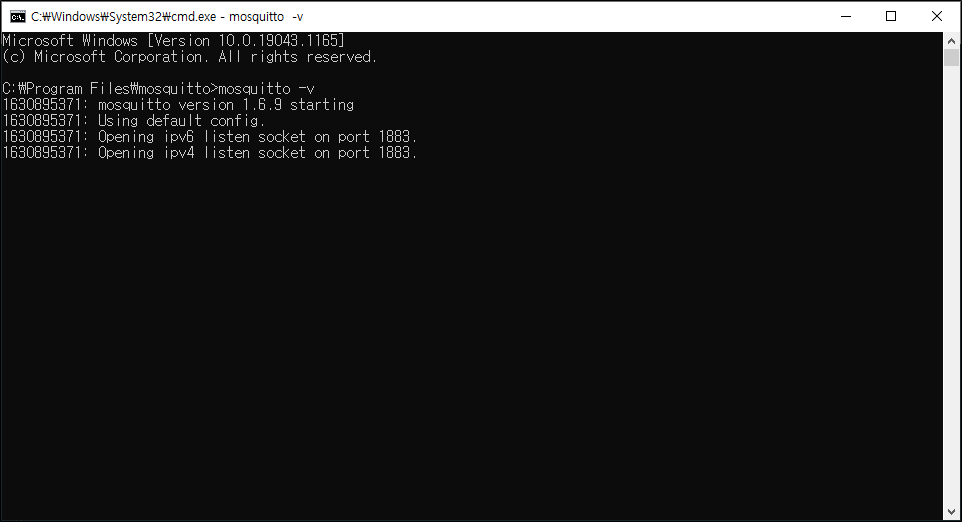
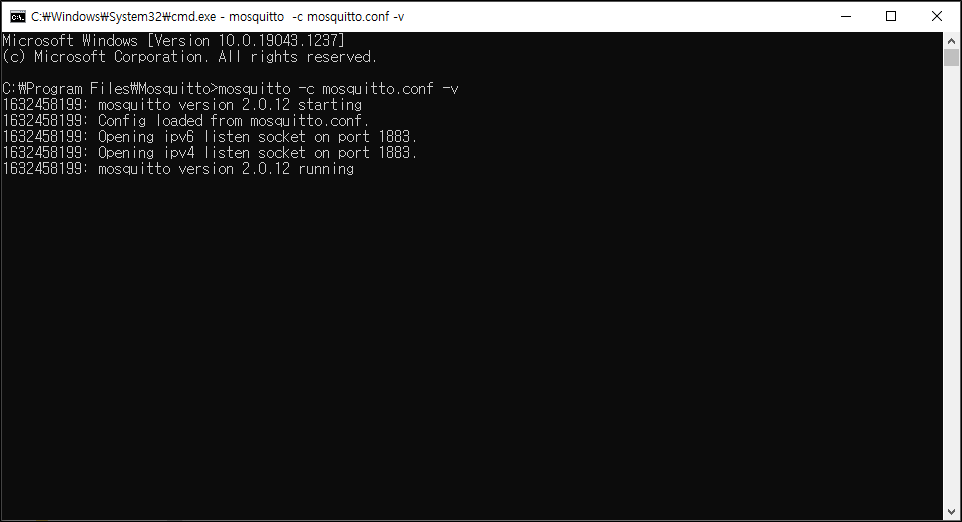
Modify examples and update example guide documents

diff --git a/examples/tcp_client_over_ssl/w5x00_tcp_client_over_ssl.c b/examples/tcp_client_over_ssl/w5x00_tcp_client_over_ssl.c
@@ -80,7 +80,7 @@ static wiz_NetInfo g_net_info =
 static uint8_t g_ssl_buf[ETHERNET_BUF_MAX_SIZE] = {
     0,
 };
-static uint8_t g_target_ip[4] = {192, 168, 11, 3};
+static uint8_t g_ssl_target_ip[4] = {192, 168, 11, 3};
 
 static mbedtls_ctr_drbg_context g_ctr_drbg;
 static mbedtls_ssl_context g_ssl;
@@ -203,6 +203,7 @@ int main()
             ;
     }
 
+    /* Get ciphersuite information */
     printf(" Supported ciphersuite lists\n");
 
     list = mbedtls_ssl_list_ciphersuites();
@@ -227,7 +228,7 @@ int main()
 
     if (retval != SOCKET_SSL)
     {
-        printf(" Socket %d\n", retval);
+        printf(" Socket failed %d\n", retval);
 
         while (1)
             ;
@@ -237,9 +238,7 @@ int main()
 
     do
     {
-        retval = connect((uint8_t)(g_ssl.p_bio), g_target_ip, PORT_SSL);
-
-        printf(" Connect %d\n", retval);
+        retval = connect((uint8_t)(g_ssl.p_bio), g_ssl_target_ip, PORT_SSL);
 
         if ((retval == SOCK_OK) || (retval == SOCKERR_TIMEOUT))
         {
@@ -254,6 +253,8 @@ int main()
         while (1)
             ;
     }
+
+    printf(" Connected %d\n", retval);
 
     while ((retval = mbedtls_ssl_handshake(&g_ssl)) != 0)
     {
@@ -270,6 +271,7 @@ int main()
 
     memset(g_ssl_buf, 0x00, ETHERNET_BUF_MAX_SIZE);
     strcpy(g_ssl_buf, " W5x00 TCP over SSL test\n");
+
     mbedtls_ssl_write(&g_ssl, g_ssl_buf, strlen(g_ssl_buf));
 
     /* Infinite loop */
@@ -285,6 +287,7 @@ int main()
             }
 
             memset(g_ssl_buf, 0x00, ETHERNET_BUF_MAX_SIZE);
+
             mbedtls_ssl_read(&g_ssl, g_ssl_buf, len);
 
             printf("%s", g_ssl_buf);

diff --git a/examples/dhcp_dns/w5x00_dhcp_dns.c b/examples/dhcp_dns/w5x00_dhcp_dns.c
@@ -183,8 +183,6 @@ int main()
 
     add_repeating_timer_us(-1000, repeating_timer_callback, NULL, &g_timer);
 
-    DNS_init(SOCKET_DNS, g_ethernet_buf);
-
     if (g_net_info.dhcp == NETINFO_DHCP) // DHCP
     {
         wizchip_dhcp_init();
@@ -196,6 +194,8 @@ int main()
         /* Get network information */
         print_network_information();
     }
+
+    DNS_init(SOCKET_DNS, g_ethernet_buf);
 
     /* Infinite loop */
     while (1)
@@ -246,8 +246,8 @@ int main()
                 if (DNS_run(g_net_info.dns, g_dns_target_domain, g_dns_target_ip) > 0)
                 {
                     printf(" DNS success\n");
-                    printf(" DNS target domain : %s\n", g_dns_target_domain);
-                    printf(" DNS IP of target domain : %d.%d.%d.%d\n", g_dns_target_ip[0], g_dns_target_ip[1], g_dns_target_ip[2], g_dns_target_ip[3]);
+                    printf(" Target domain : %s\n", g_dns_target_domain);
+                    printf(" IP of target domain : %d.%d.%d.%d\n", g_dns_target_ip[0], g_dns_target_ip[1], g_dns_target_ip[2], g_dns_target_ip[3]);
 
                     g_dns_get_ip_flag = 1;
 
@@ -257,7 +257,10 @@ int main()
                 {
                     dns_retry++;
 
-                    printf(" DNS retry after 1 second\n");
+                    if (dns_retry <= DNS_RETRY_COUNT)
+                    {
+                        printf(" DNS timeout occurred and retry %d\n", dns_retry);
+                    }
                 }
 
                 if (dns_retry > DNS_RETRY_COUNT)

diff --git a/examples/mqtt/publish/w5x00_mqtt_publish.c b/examples/mqtt/publish/w5x00_mqtt_publish.c
@@ -83,7 +83,7 @@ static wiz_NetInfo g_net_info =
 static uint8_t g_mqtt_send_buf[ETHERNET_BUF_MAX_SIZE] = {
 	0,
 };
-static uint8_t g_mqtt_read_buf[ETHERNET_BUF_MAX_SIZE] = {
+static uint8_t g_mqtt_recv_buf[ETHERNET_BUF_MAX_SIZE] = {
 	0,
 };
 static uint8_t g_mqtt_broker_ip[4] = {192, 168, 11, 3};
@@ -195,7 +195,7 @@ int main()
 	}
 
 	/* Initialize MQTT client */
-	MQTTClientInit(&g_mqtt_client, &g_mqtt_network, DEFAULT_TIMEOUT, g_mqtt_send_buf, ETHERNET_BUF_MAX_SIZE, g_mqtt_read_buf, ETHERNET_BUF_MAX_SIZE);
+	MQTTClientInit(&g_mqtt_client, &g_mqtt_network, DEFAULT_TIMEOUT, g_mqtt_send_buf, ETHERNET_BUF_MAX_SIZE, g_mqtt_recv_buf, ETHERNET_BUF_MAX_SIZE);
 
 	/* Connect to the MQTT broker */
 	g_mqtt_packet_connect_data.MQTTVersion = 3;

diff --git a/examples/mqtt/subscribe/w5x00_mqtt_subscribe.c b/examples/mqtt/subscribe/w5x00_mqtt_subscribe.c
@@ -82,7 +82,7 @@ static wiz_NetInfo g_net_info =
 static uint8_t g_mqtt_send_buf[ETHERNET_BUF_MAX_SIZE] = {
 	0,
 };
-static uint8_t g_mqtt_read_buf[ETHERNET_BUF_MAX_SIZE] = {
+static uint8_t g_mqtt_recv_buf[ETHERNET_BUF_MAX_SIZE] = {
 	0,
 };
 static uint8_t g_mqtt_broker_ip[4] = {192, 168, 11, 3};
@@ -196,7 +196,7 @@ int main()
 	}
 
 	/* Initialize MQTT client */
-	MQTTClientInit(&g_mqtt_client, &g_mqtt_network, DEFAULT_TIMEOUT, g_mqtt_send_buf, ETHERNET_BUF_MAX_SIZE, g_mqtt_read_buf, ETHERNET_BUF_MAX_SIZE);
+	MQTTClientInit(&g_mqtt_client, &g_mqtt_network, DEFAULT_TIMEOUT, g_mqtt_send_buf, ETHERNET_BUF_MAX_SIZE, g_mqtt_recv_buf, ETHERNET_BUF_MAX_SIZE);
 
 	/* Connect to the MQTT broker */
 	g_mqtt_packet_connect_data.MQTTVersion = 3;

diff --git a/examples/mqtt/subscribe/README.md b/examples/mqtt/subscribe/README.md
@@ -115,7 +115,7 @@ static uint8_t g_mqtt_broker_ip[4] = {192, 168, 11, 3};
 5. Create broker using mosquitto by executing the following command. If the broker is created normally, the broker's IP is the current IP of your desktop or laptop, and the port is 1883 by default.
 
 ```cpp
-mosquitto -v
+mosquitto -c mosquitto.conf -v
 ```
 
 ![][link-create_mqtt_broker_using_mosquitto]
@@ -125,6 +125,14 @@ mosquitto -v
 7. If the MQTT subscribe example works normally on Raspberry Pi Pico or W5100S-EVB-Pico, you can see the network information of Raspberry Pi Pico or W5100S-EVB-Pico, connecting to the broker and subscribing to the subscribe topic.
 
 ![][link-see_network_information_of_raspberry_pi_pico_connecting_to_broker_and_subscribing_to_subscribe_topic]
+
+
+
+## Appendix
+
+- Prior to Mosquitto version 2.0 the default is to allow clients to connect without authentication. In 2.0 and up, you must choose your authentication options explicitly before clients can connect. Therefore, if you are using 2.0 and up, refer to following link to setup 'mosquitto.conf' in the directory where Mosquitto is installed.
+
+    - [**Authentication Methods**][link-authentication_methods]
 
 
 
@@ -139,3 +147,4 @@ Link
 [link-run_mosquitto]: https://github.com/Wiznet/RP2040-HAT-C/blob/main/static/images/mqtt/subscribe/run_mosquitto.png
 [link-create_mqtt_broker_using_mosquitto]: https://github.com/Wiznet/RP2040-HAT-C/blob/main/static/images/mqtt/subscribe/create_mqtt_broker_using_mosquitto.png
 [link-see_network_information_of_raspberry_pi_pico_connecting_to_broker_and_subscribing_to_subscribe_topic]: https://github.com/Wiznet/RP2040-HAT-C/blob/main/static/images/mqtt/subscribe/see_network_information_of_raspberry_pi_pico_connecting_to_broker_and_subscribing_to_subscribe_topic.png
+[link-authentication_methods]: https://mosquitto.org/documentation/authentication-methods/

diff --git a/examples/mqtt/publish/README.md b/examples/mqtt/publish/README.md
@@ -116,7 +116,7 @@ static uint8_t g_mqtt_broker_ip[4] = {192, 168, 11, 3};
 5. Create broker using mosquitto by executing the following command. If the broker is created normally, the broker's IP is the current IP of your desktop or laptop, and the port is 1883 by default.
 
 ```cpp
-mosquitto -v
+mosquitto -c mosquitto.conf -v
 ```
 
 ![][link-create_mqtt_broker_using_mosquitto]
@@ -126,6 +126,14 @@ mosquitto -v
 7. If the MQTT publish example works normally on Raspberry Pi Pico or W5100S-EVB-Pico, you can see the network information of Raspberry Pi Pico or W5100S-EVB-Pico, connecting to the broker and publishing the message.
 
 ![][link-see_network_information_of_raspberry_pi_pico_connecting_to_broker_and_publishing_message]
+
+
+
+## Appendix
+
+- Prior to Mosquitto version 2.0 the default is to allow clients to connect without authentication. In 2.0 and up, you must choose your authentication options explicitly before clients can connect. Therefore, if you are using 2.0 and up, refer to following link to setup 'mosquitto.conf' in the directory where Mosquitto is installed.
+
+    - [**Authentication Methods**][link-authentication_methods]
 
 
 
@@ -140,3 +148,4 @@ Link
 [link-run_mosquitto]: https://github.com/Wiznet/RP2040-HAT-C/blob/main/static/images/mqtt/publish/run_mosquitto.png
 [link-create_mqtt_broker_using_mosquitto]: https://github.com/Wiznet/RP2040-HAT-C/blob/main/static/images/mqtt/publish/create_mqtt_broker_using_mosquitto.png
 [link-see_network_information_of_raspberry_pi_pico_connecting_to_broker_and_publishing_message]: https://github.com/Wiznet/RP2040-HAT-C/blob/main/static/images/mqtt/publish/see_network_information_of_raspberry_pi_pico_connecting_to_broker_and_publishing_message.png
+[link-authentication_methods]: https://mosquitto.org/documentation/authentication-methods/

diff --git a/examples/tcp_client_over_ssl/README.md b/examples/tcp_client_over_ssl/README.md
@@ -76,7 +76,7 @@ In the TCP client over SSL configuration, the target IP is the IP of your deskto
 /* Port */
 #define PORT_SSL 443
 
-static uint8_t g_target_ip[4] = {192, 168, 11, 3};
+static uint8_t g_ssl_target_ip[4] = {192, 168, 11, 3};
 ```
 
 In order to change SSL settings, modify 'ssl_config.h' located in the same directory with TCP Client over SSL example.
@@ -148,6 +148,7 @@ s_server -accept 443 -cert server.crt -key server.key
 ## Appendix
 
 - mbedTLS library was ported to use SSL, please refer to following link to find version of ported mbed TLS.
+
 	- [**mbed TLS**][link-mbed_tls]
 
 - When porting other version of the mbed TLS, the mbed TLS is in test mode by default, so you must turn off test mode in 'CMakeLists.txt' in 'mbedtls/' directory.
